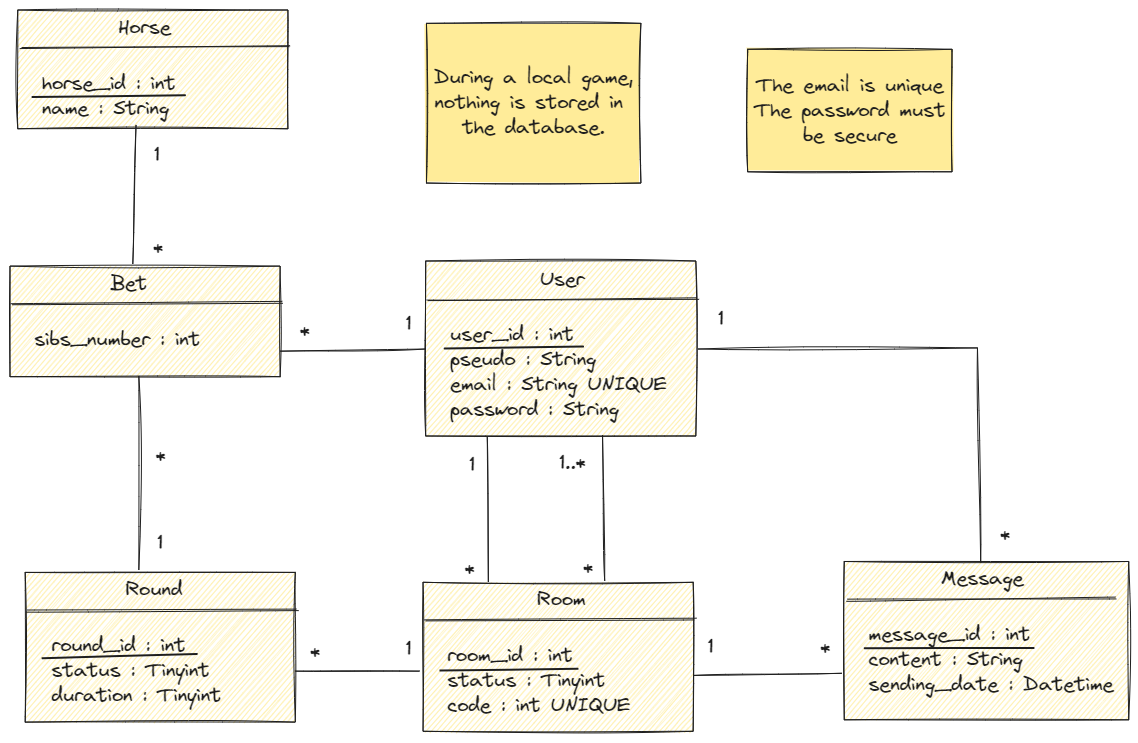
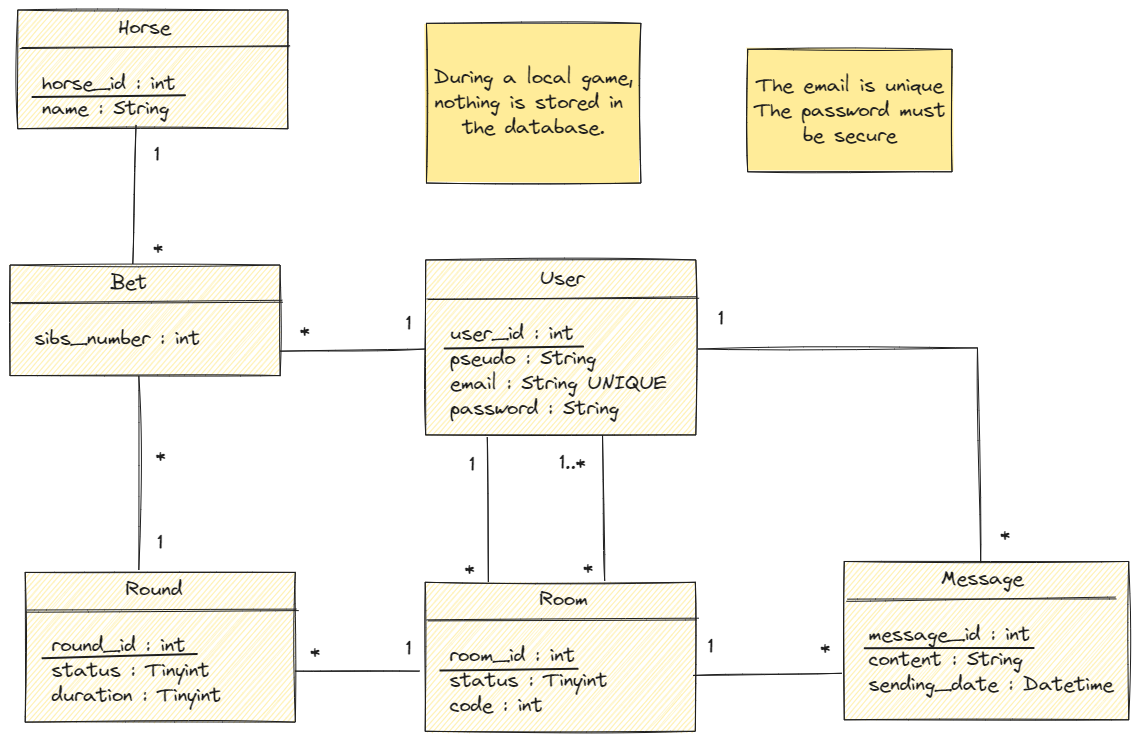
👌 IMPROVE: Allow new room with an existing code in a disabled room

Changed region(s): [[0.3691, 0.3405, 0.6151, 0.5882], [0.3691, 0.7739, 0.6151, 0.9906], [0.0, 0.3405, 0.246, 0.5262]]

diff --git a/api/src/controllers/roomCtrl.js b/api/src/controllers/roomCtrl.js
@@ -30,65 +30,68 @@ function createRoom(req, res, userIds, adminId) {
   const sqlQueryUserRoom =
     "INSERT INTO User_Room (user_id, room_id) VALUES (?, ?)";
   const sqlQueryCodeRoom = "SELECT * FROM Room WHERE room_id = ?";
-  db.run(
-    sqlQueryRoom,
-    [newRoom.status, newRoom.code, newRoom.adminId],
-    function (err) {
-      if (err) {
-        console.error(err);
-        if (err.code == "SQLITE_CONSTRAINT") {
-          // Retry with a new code
-          createRoom(req, res, userIds, adminId);
-        } else {
-          return res
-            .status(500)
-            .json({ error: "Internal server error", errorCode: 2002 });
-        }
-      }
-      const roomId = this.lastID;
 
-      const promises = userIds.map((userId) => {
-        return new Promise((resolve, reject) => {
-          db.run(sqlQueryUserRoom, [userId, roomId], (err) => {
-            if (err) {
-              console.error(err);
-              reject({
-                status: 500,
-                json: {
-                  error: "Internal server error",
-                  errorCode: 2003,
-                },
-              });
-            }
-            resolve();
-          });
-        });
-      });
-
-      Promise.all(promises)
-        .then(() => {
+  const sqlQueryCodeExists = "SELECT * FROM Room WHERE code = ? AND status = 1";
+  db.all(sqlQueryCodeExists, code, (err, results) => {
+    if (results.length === 0) {
+      db.run(
+        sqlQueryRoom,
+        [newRoom.status, newRoom.code, newRoom.adminId],
+        function (err) {
+          if (err) {
+            return res
+              .status(500)
+              .json({ error: "Internal server error", errorCode: 2002 });
+          }
           const roomId = this.lastID;
-          db.all(sqlQueryCodeRoom, roomId, (err, results) => {
-            if (results.length === 0) {
-              res
-                .status(400)
-                .json({ error: "Can't get the room object", errorCode: 2005 });
-            } else {
-              res.status(200).json({
-                message: "Room created successfully",
-                roomdId: roomId,
-                status: results[0].status,
-                code: results[0].code,
-                adminId: results[0].admin_id,
+
+          const promises = userIds.map((userId) => {
+            return new Promise((resolve, reject) => {
+              db.run(sqlQueryUserRoom, [userId, roomId], (err) => {
+                if (err) {
+                  reject({
+                    status: 500,
+                    json: {
+                      error: "Internal server error",
+                      errorCode: 2003,
+                    },
+                  });
+                }
+                resolve();
               });
-            }
+            });
           });
-        })
-        .catch((err) => {
-          res.status(err.status).json(err.json);
-        });
+
+          Promise.all(promises)
+            .then(() => {
+              const roomId = this.lastID;
+              db.all(sqlQueryCodeRoom, roomId, (err, results) => {
+                if (results.length === 0) {
+                  res.status(400).json({
+                    error: "Can't get the room object",
+                    errorCode: 2005,
+                  });
+                } else {
+                  res.status(200).json({
+                    message: "Room created successfully",
+                    roomdId: roomId,
+                    status: results[0].status,
+                    code: results[0].code,
+                    adminId: results[0].admin_id,
+                  });
+                }
+              });
+            })
+            .catch((err) => {
+              res.status(err.status).json(err.json);
+            });
+        }
+      );
+    } else {
+      //Retry with a new code
+      createRoom(req, res, userIds, adminId);
     }
-  );
+  });
 }
 
 exports.get = (req, res) => {
@@ -148,7 +151,7 @@ exports.getPlayers = (req, res) => {
             } else {
               res.status(200).json({
                 users: users,
-                admin: results,
+                admin: results[0],
               });
             }
           });
@@ -174,7 +177,6 @@ exports.getMessages = (req, res) => {
       const sqlQueryRoom = "SELECT * FROM Room WHERE room_id = ?";
       db.get(sqlQueryRoom, roomId, (err, room) => {
         if (err) {
-          console.error(err);
           return res
             .status(500)
             .json({ error: "Internal server error", errorCode: 2030 });
@@ -217,7 +219,6 @@ exports.disable = (req, res) => {
       const sqlQuery = "UPDATE Room SET status = 0 WHERE room_id = ?";
       db.run(sqlQuery, roomId, function (err) {
         if (err) {
-          console.error(err);
           return res
             .status(500)
             .json({ error: "Internal server error", errorCode: 2040 });
